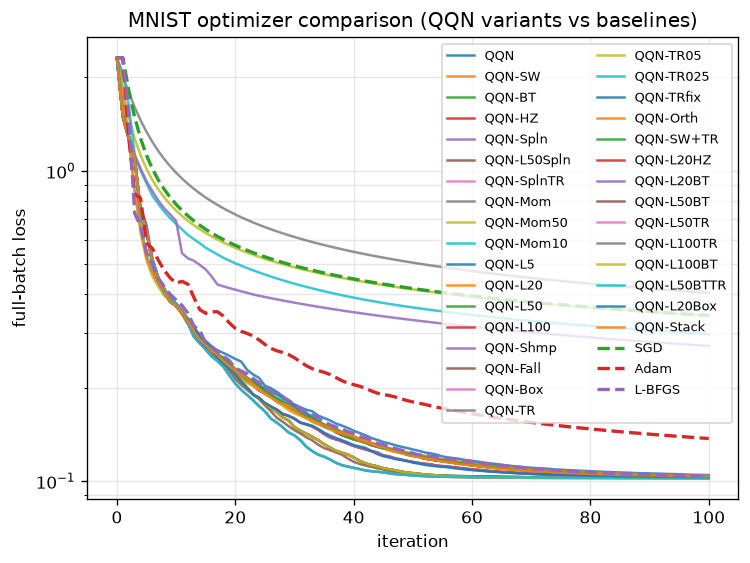
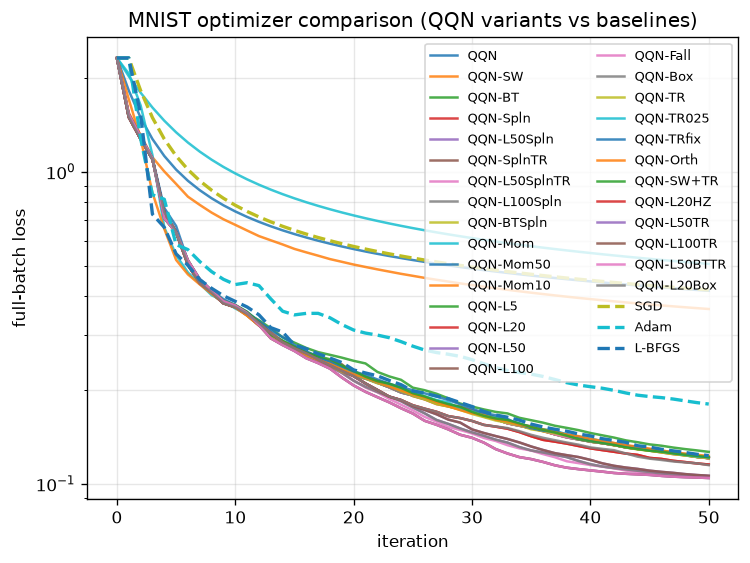
wip

diff --git a/examples/mnist_comparison.py b/examples/mnist_comparison.py
@@ -17,7 +17,6 @@ Run with:  python examples/mnist_comparison.py
 """
 
 import time
-from functools import partial
 
 import jax
 import jax.numpy as jnp
@@ -149,9 +148,24 @@ def accuracy(params, X, y, dim, n_classes):
 # --------------------------------------------------------------------------
 
 
-def run_qqn(loss_fn, params0, maxiter):
+def _grad_norm(loss_fn, params):
+    """Compute the L2 norm of the gradient at ``params``."""
+    g = jax.grad(loss_fn)(params)
+    return float(jnp.linalg.norm(g))
+
+
+def _converged(value, gnorm, f_target, gtol):
+    """Shared convergence test: target loss reached OR gradient ~ 0."""
+    if f_target is not None and value <= f_target:
+        return True
+    if gtol is not None and gnorm <= gtol:
+        return True
+    return False
+
+
+def run_qqn(loss_fn, params0, maxiter, stop=None):
     """Run QQN and return (final_params, history_of_losses, wall_time)."""
-    return _run_qqn_configured(loss_fn, params0, maxiter)
+    return _run_qqn_configured(loss_fn, params0, maxiter, stop=stop)
 
 
 def _run_qqn_configured(
@@ -163,13 +177,22 @@ def _run_qqn_configured(
     oracle="lbfgs",
     region=None,
     spline: bool = False,
+    stop=None,
 ):
     """Run a configurable QQN variant.
 
     Exposes QQN's swappable components — the *oracle* (curvature source),
     the *line search* (step-size selection), and the *region* (projective
     constraint) — so we can benchmark several QQN flavours side-by-side.
+     ``stop`` is a dict with shared termination bounds applied uniformly to
+     every optimizer: ``f_target`` (loss threshold), ``gtol`` (gradient-norm
+     tolerance), and ``time_budget`` (wall-clock seconds).
     """
+    stop = stop or {}
+    f_target = stop.get("f_target")
+    gtol = stop.get("gtol")
+    time_budget = stop.get("time_budget")
+
     solver = QQN(
         loss_fn,
         maxiter=maxiter,
@@ -185,20 +208,37 @@ def _run_qqn_configured(
     params = params0
     history = [float(state.value)]
     times = [0.0]
+    # Record iteration / time at which the shared target was first hit.
+    iters_to_target = None
+    time_to_target = None
     t0 = time.perf_counter()
     update = jax.jit(solver.update)
-    for _ in range(maxiter):
+    for it in range(maxiter):
         params, state = update(params, state)
         history.append(float(state.value))
-        times.append(time.perf_counter() - t0)
+        now = time.perf_counter() - t0
+        times.append(now)
+        # --- Shared termination criteria (uniform across all methods) ---
+        gnorm = _grad_norm(loss_fn, params)
+        if iters_to_target is None and _converged(history[-1], gnorm, f_target, gtol):
+            iters_to_target = it + 1
+            time_to_target = now
+            break
+        if time_budget is not None and now >= time_budget:
+            break
         if bool(state.done):
             break
     wall = time.perf_counter() - t0
-    return params, history, wall, times
+    return params, history, wall, times, iters_to_target, time_to_target
 
 
-def run_optax(loss_fn, params0, optimizer, maxiter):
-    """Run a generic Optax optimizer; returns (params, history, wall)."""
+def run_optax(loss_fn, params0, optimizer, maxiter, stop=None):
+    """Run a generic Optax optimizer; returns (params, history, wall, times)."""
+    stop = stop or {}
+    f_target = stop.get("f_target")
+    gtol = stop.get("gtol")
+    time_budget = stop.get("time_budget")
+
     value_and_grad = jax.jit(jax.value_and_grad(loss_fn))
     opt_state = optimizer.init(params0)
 
@@ -207,20 +247,39 @@ def run_optax(loss_fn, params0, optimizer, maxiter):
         value, grad = value_and_grad(params)
         updates, opt_state = optimizer.update(grad, opt_state, params)
         params = optax.apply_updates(params, updates)
-        return params, opt_state, value
+        return params, opt_state, value, jnp.linalg.norm(grad)
 
     params = params0
     history = [float(loss_fn(params))]
+    times = [0.0]
+    iters_to_target = None
+    time_to_target = None
     t0 = time.perf_counter()
-    for _ in range(maxiter):
-        params, opt_state, value = step(params, opt_state)
+    for it in range(maxiter):
+        params, opt_state, value, gnorm = step(params, opt_state)
         history.append(float(value))
+        now = time.perf_counter() - t0
+        times.append(now)
+        # --- Shared termination criteria (uniform across all methods) ---
+        if iters_to_target is None and _converged(
+            history[-1], float(gnorm), f_target, gtol
+        ):
+            iters_to_target = it + 1
+            time_to_target = now
+            break
+        if time_budget is not None and now >= time_budget:
+            break
     wall = time.perf_counter() - t0
-    return params, history, wall
+    return params, history, wall, times, iters_to_target, time_to_target
 
 
-def run_optax_lbfgs(loss_fn, params0, maxiter):
+def run_optax_lbfgs(loss_fn, params0, maxiter, stop=None):
     """Run Optax's L-BFGS (with zoom line search) on the full-batch loss."""
+    stop = stop or {}
+    f_target = stop.get("f_target")
+    gtol = stop.get("gtol")
+    time_budget = stop.get("time_budget")
+
     value_and_grad = jax.jit(jax.value_and_grad(loss_fn))
     optimizer = optax.lbfgs()
     opt_state = optimizer.init(params0)
@@ -237,16 +296,30 @@ def run_optax_lbfgs(loss_fn, params0, maxiter):
             value_fn=loss_fn,
         )
         params = optax.apply_updates(params, updates)
-        return params, opt_state, value
+        return params, opt_state, value, jnp.linalg.norm(grad)
 
     params = params0
     history = [float(loss_fn(params))]
+    times = [0.0]
+    iters_to_target = None
+    time_to_target = None
     t0 = time.perf_counter()
-    for _ in range(maxiter):
-        params, opt_state, value = step(params, opt_state)
+    for it in range(maxiter):
+        params, opt_state, value, gnorm = step(params, opt_state)
         history.append(float(value))
+        now = time.perf_counter() - t0
+        times.append(now)
+        # --- Shared termination criteria (uniform across all methods) ---
+        if iters_to_target is None and _converged(
+            history[-1], float(gnorm), f_target, gtol
+        ):
+            iters_to_target = it + 1
+            time_to_target = now
+            break
+        if time_budget is not None and now >= time_budget:
+            break
     wall = time.perf_counter() - t0
-    return params, history, wall
+    return params, history, wall, times, iters_to_target, time_to_target
 
 
 # --------------------------------------------------------------------------
@@ -259,13 +332,29 @@ def main():
     n_classes = 10
     n_train = 5000
     n_test = 1000
-    maxiter = 100
+    maxiter = 50
+    # --- Shared, fair termination bounds applied to EVERY optimizer ---
+    #   f_target:     stop once full-batch loss <= this value
+    #   gtol:         stop once ||grad|| <= this value (stationarity)
+    #   time_budget:  hard wall-clock cap (seconds) per optimizer
+    # These make the comparison apples-to-apples: every method now races to
+    # the same loss threshold under the same time limit and the same
+    # stationarity tolerance, rather than each using its own private rule.
+    stop = {
+        "f_target": 1.0e-1,
+        "gtol": 1.0e-4,
+        "time_budget": 10.0,
+    }
 
     print("=== MNIST optimizer comparison: QQN vs SGD vs Adam vs L-BFGS ===")
     print("    (QQN variants: line search / oracle / region)")
     print(
         f"  classes={n_classes}  n_train={n_train}  n_test={n_test}  "
         f"maxiter={maxiter}\n"
+    )
+    print(
+        f"  shared stop: f_target={stop['f_target']:.1e}  "
+        f"gtol={stop['gtol']:.1e}  time_budget={stop['time_budget']:.1f}s\n"
     )
 
     xtr, ytr, xte, yte = _load_mnist_numpy(n_train, n_test, n_classes)
@@ -283,13 +372,14 @@ def main():
 
     runners = {
         # --- Baseline QQN (L-BFGS oracle, Armijo line search) ---
-        "QQN": lambda: run_qqn(loss_fn, params0, maxiter),
+        "QQN": lambda: run_qqn(loss_fn, params0, maxiter, stop=stop),
         # --- QQN with a strong-Wolfe line search (tighter curvature) ---
         "QQN-SW": lambda: _run_qqn_configured(
             loss_fn,
             params0,
             maxiter,
             line_search="strong_wolfe",
+            stop=stop,
         ),
         # --- QQN with backtracking line search (cheap, robust) ---
         "QQN-BT": lambda: _run_qqn_configured(
@@ -297,6 +387,7 @@ def main():
             params0,
             maxiter,
             line_search="backtracking",
+            stop=stop,
         ),
         # --- QQN with a cubic Hermite spline line search ---
         "QQN-Spln": lambda: _run_qqn_configured(
@@ -505,21 +596,23 @@ def main():
             region=BoxRegion(lo=-2.0, hi=2.0),
         ),
         "SGD": lambda: run_optax(
-            loss_fn, params0, optax.sgd(learning_rate=0.5), maxiter
+            loss_fn, params0, optax.sgd(learning_rate=0.5), maxiter, stop=stop
         ),
         "Adam": lambda: run_optax(
-            loss_fn, params0, optax.adam(learning_rate=0.05), maxiter
+            loss_fn, params0, optax.adam(learning_rate=0.05), maxiter, stop=stop
         ),
-        "L-BFGS": lambda: run_optax_lbfgs(loss_fn, params0, maxiter),
+        "L-BFGS": lambda: run_optax_lbfgs(loss_fn, params0, maxiter, stop=stop),
     }
 
     results = {}
     for name, runner in runners.items():
-        params, history, wall, times = runner()
+        params, history, wall, times, iters_to_target, time_to_target = runner()
         train_acc = float(accuracy(params, X_train, y_train, dim, n_classes))
         test_acc = float(accuracy(params, X_test, y_test, dim, n_classes))
         # Fraction of (near-)zero weights — illuminating for the orthant region.
         sparsity = float(jnp.mean((jnp.abs(params) < 1e-6).astype(jnp.float32)))
+        # Did this optimizer reach the shared loss/gradient target at all?
+        reached = iters_to_target is not None
         results[name] = {
             "final_loss": history[-1],
             "iters": len(history) - 1,
@@ -529,19 +622,26 @@ def main():
             "sparsity": sparsity,
             "history": history,
             "times": times,
+            "reached": reached,
+            "iters_to_target": iters_to_target,
+            "time_to_target": time_to_target,
         }
 
     # --- Summary table ---
     print(
         f"{'optimizer':<10}{'final_loss':>14}{'iters':>8}"
         f"{'train_acc':>12}{'test_acc':>11}{'sparsity':>10}{'time(s)':>10}"
+        f"{'->target':>10}{'t->tgt':>9}"
     )
-    print("-" * 75)
+    print("-" * 94)
     for name, r in results.items():
+        it_tgt = "—" if r["iters_to_target"] is None else f"{r['iters_to_target']}"
+        t_tgt = "—" if r["time_to_target"] is None else f"{r['time_to_target']:.3f}"
         print(
             f"{name:<10}{r['final_loss']:>14.6e}{r['iters']:>8}"
             f"{r['train_acc']:>12.4f}{r['test_acc']:>11.4f}"
             f"{r['sparsity']:>10.4f}{r['wall']:>10.3f}"
+            f"{it_tgt:>10}{t_tgt:>9}"
         )
 
     # --- Loss trajectory (compact ASCII view at log10 scale) ---

diff --git a/docs/results.update.op.md b/docs/results.update.op.md
@@ -12,5 +12,5 @@ related:
   - ../qqn_jax/oracles.py
 ---
 
-Our collection is getting way too broad. Remove the uninformative redundancies.
-`spline=True` is underexplored in combination with other features. Combine with some other best-of-breeds.
+Improve QQN Performance without reducing diversity.
+Improve the test to perform a more effective experiment.